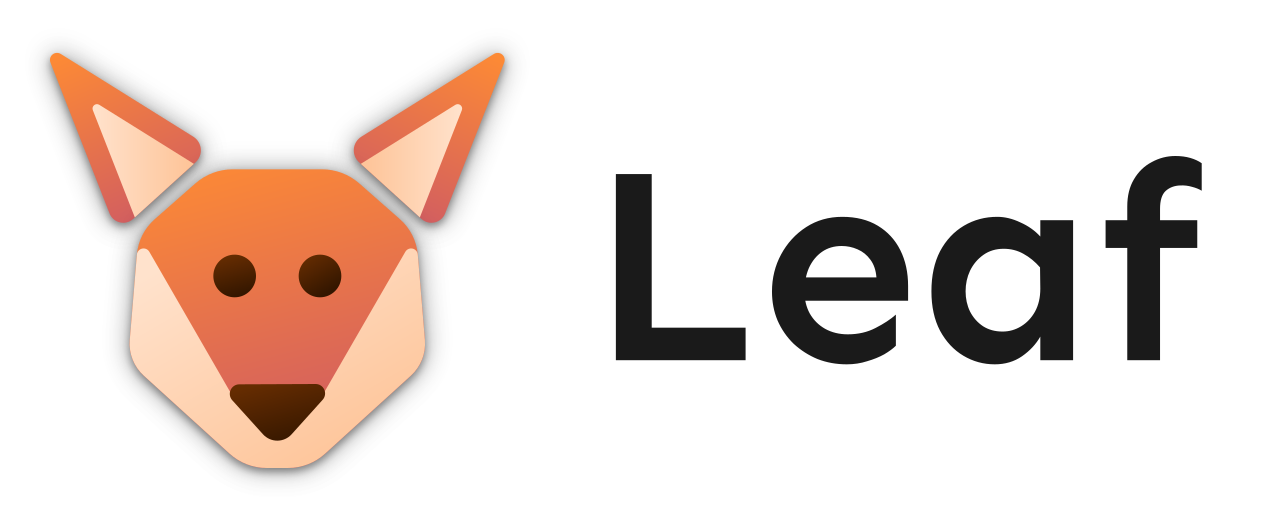
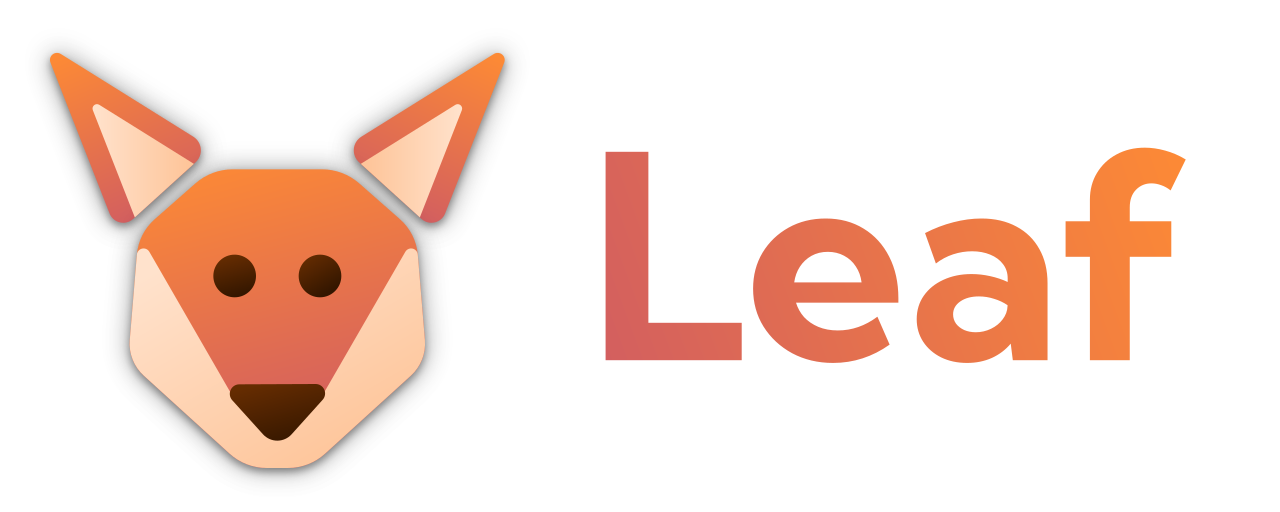
Can also haz colour

Changed region(s): [[0.4688, 0.2812, 0.9375, 0.7188]]

diff --git a/README.md b/README.md
@@ -1,4 +1,4 @@
-<img src="img/Leaf.png" style="width:100%"/>
+<img src="img/Leaf.png" align="middle" style="width:80%"/>
 
 # Leaf
 
